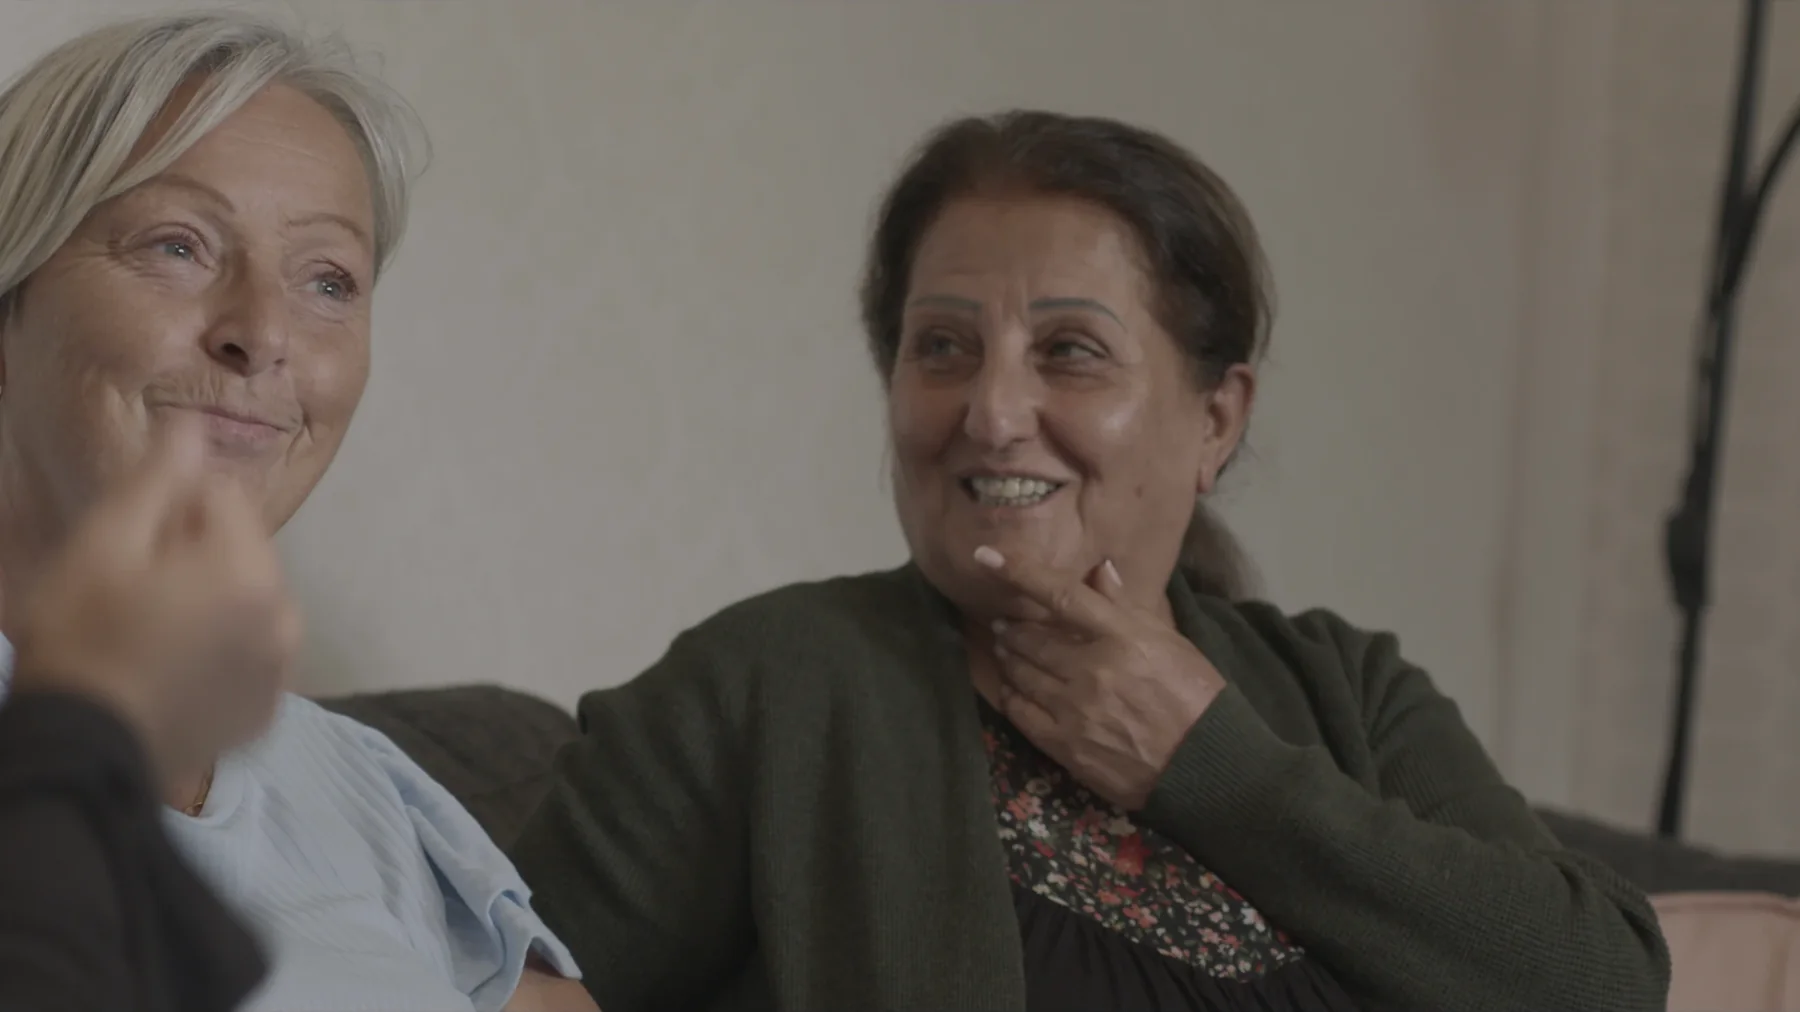
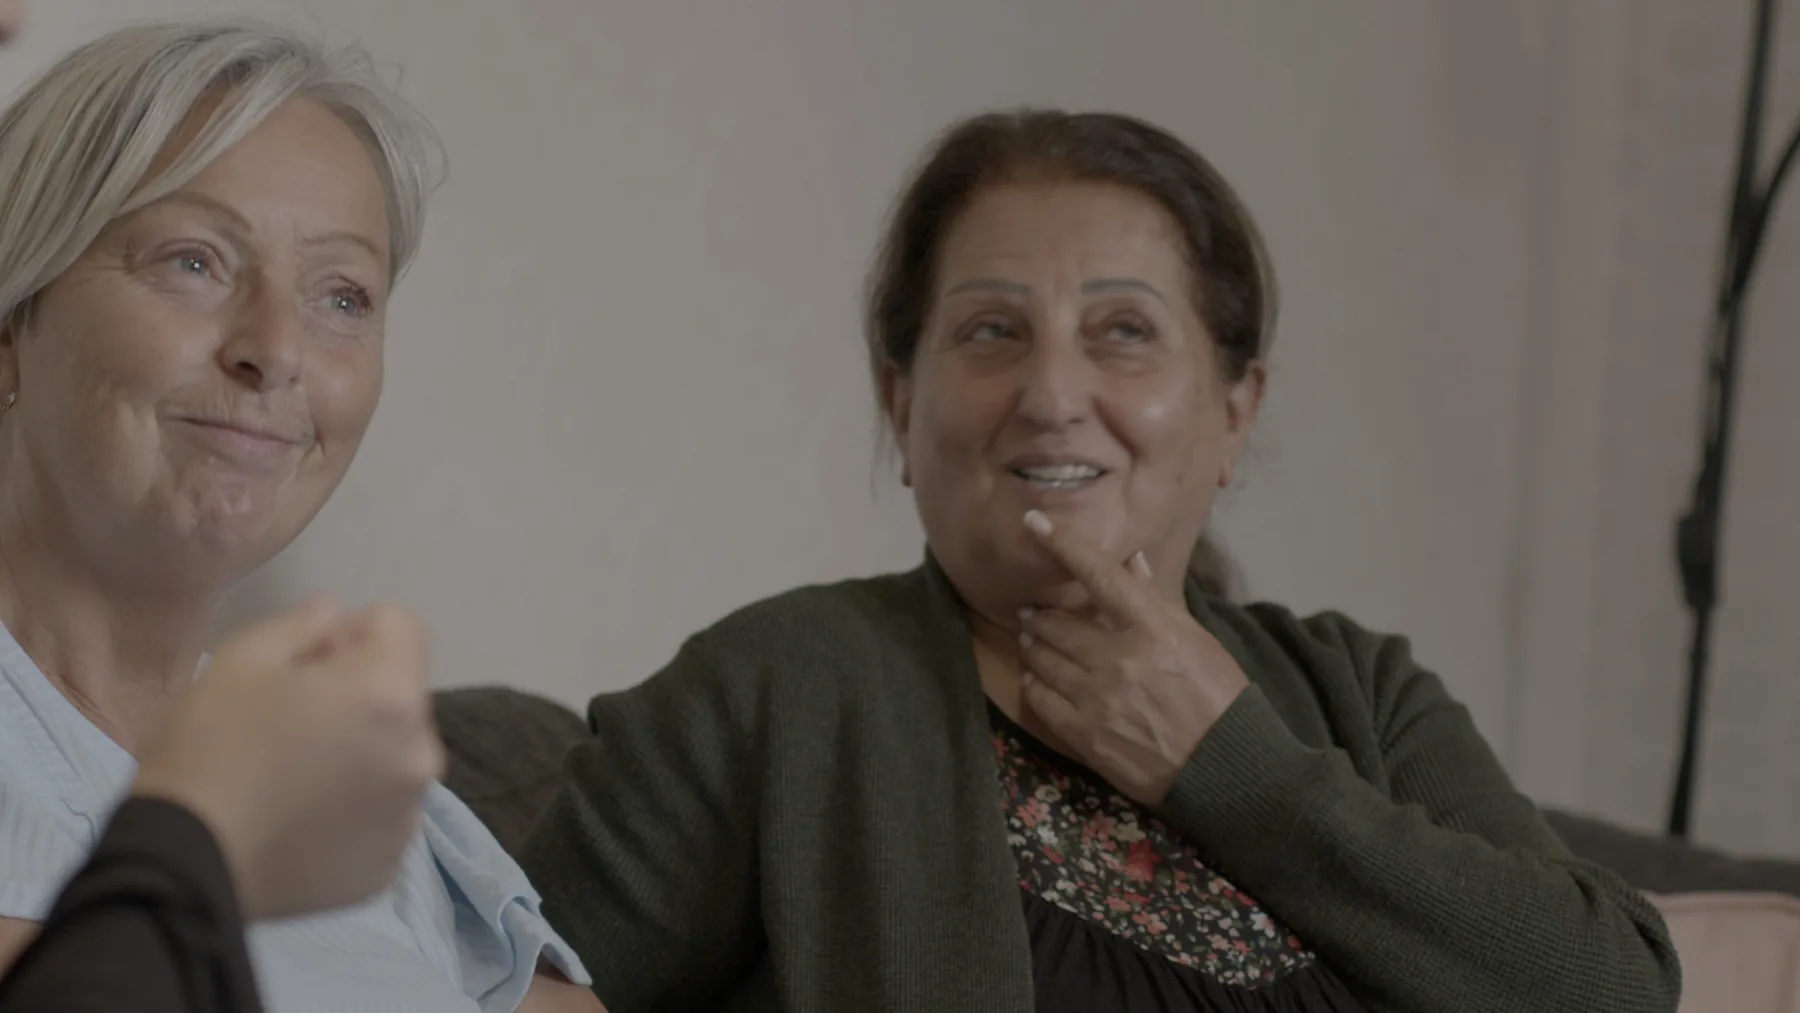
Jag som har två mammor: ny herobild
Claude-Session: https://claude.ai/code/session_019z5gid41oSz73Rx31JZp6G

diff --git a/Jagsomhartvamammor/index.html b/Jagsomhartvamammor/index.html
@@ -68,11 +68,11 @@
        Bilden som eget lager längst bak, texten ovanpå, som på Birds
        of Passage-sidan. Det här är sidans enda fotografi i färg —
        stillbilderna nedanför är svartvita, som i pitchdecket. De två
-       sitter i höger halva av bilden, så rubriken till vänster täcker
-       ingen av dem. -->
+       sitter bredvid varandra i soffan, Birgitta till vänster och
+       Fedaa till höger. -->
   <header class="bop-hero bop-hero--hel-bild">
     <img class="bop-hero-bild" src="stills/jhtm-mammorna.webp" alt="Birgitta och Fedaa i soffan"
-         width="1800" height="1012" fetchpriority="high" decoding="async" />
+         width="1800" height="1013" fetchpriority="high" decoding="async" />
 
     <div class="bop-hero-inner">
       <a class="sida-back" href="../" data-i18n="jhtmBack">← Till startsidan</a>
